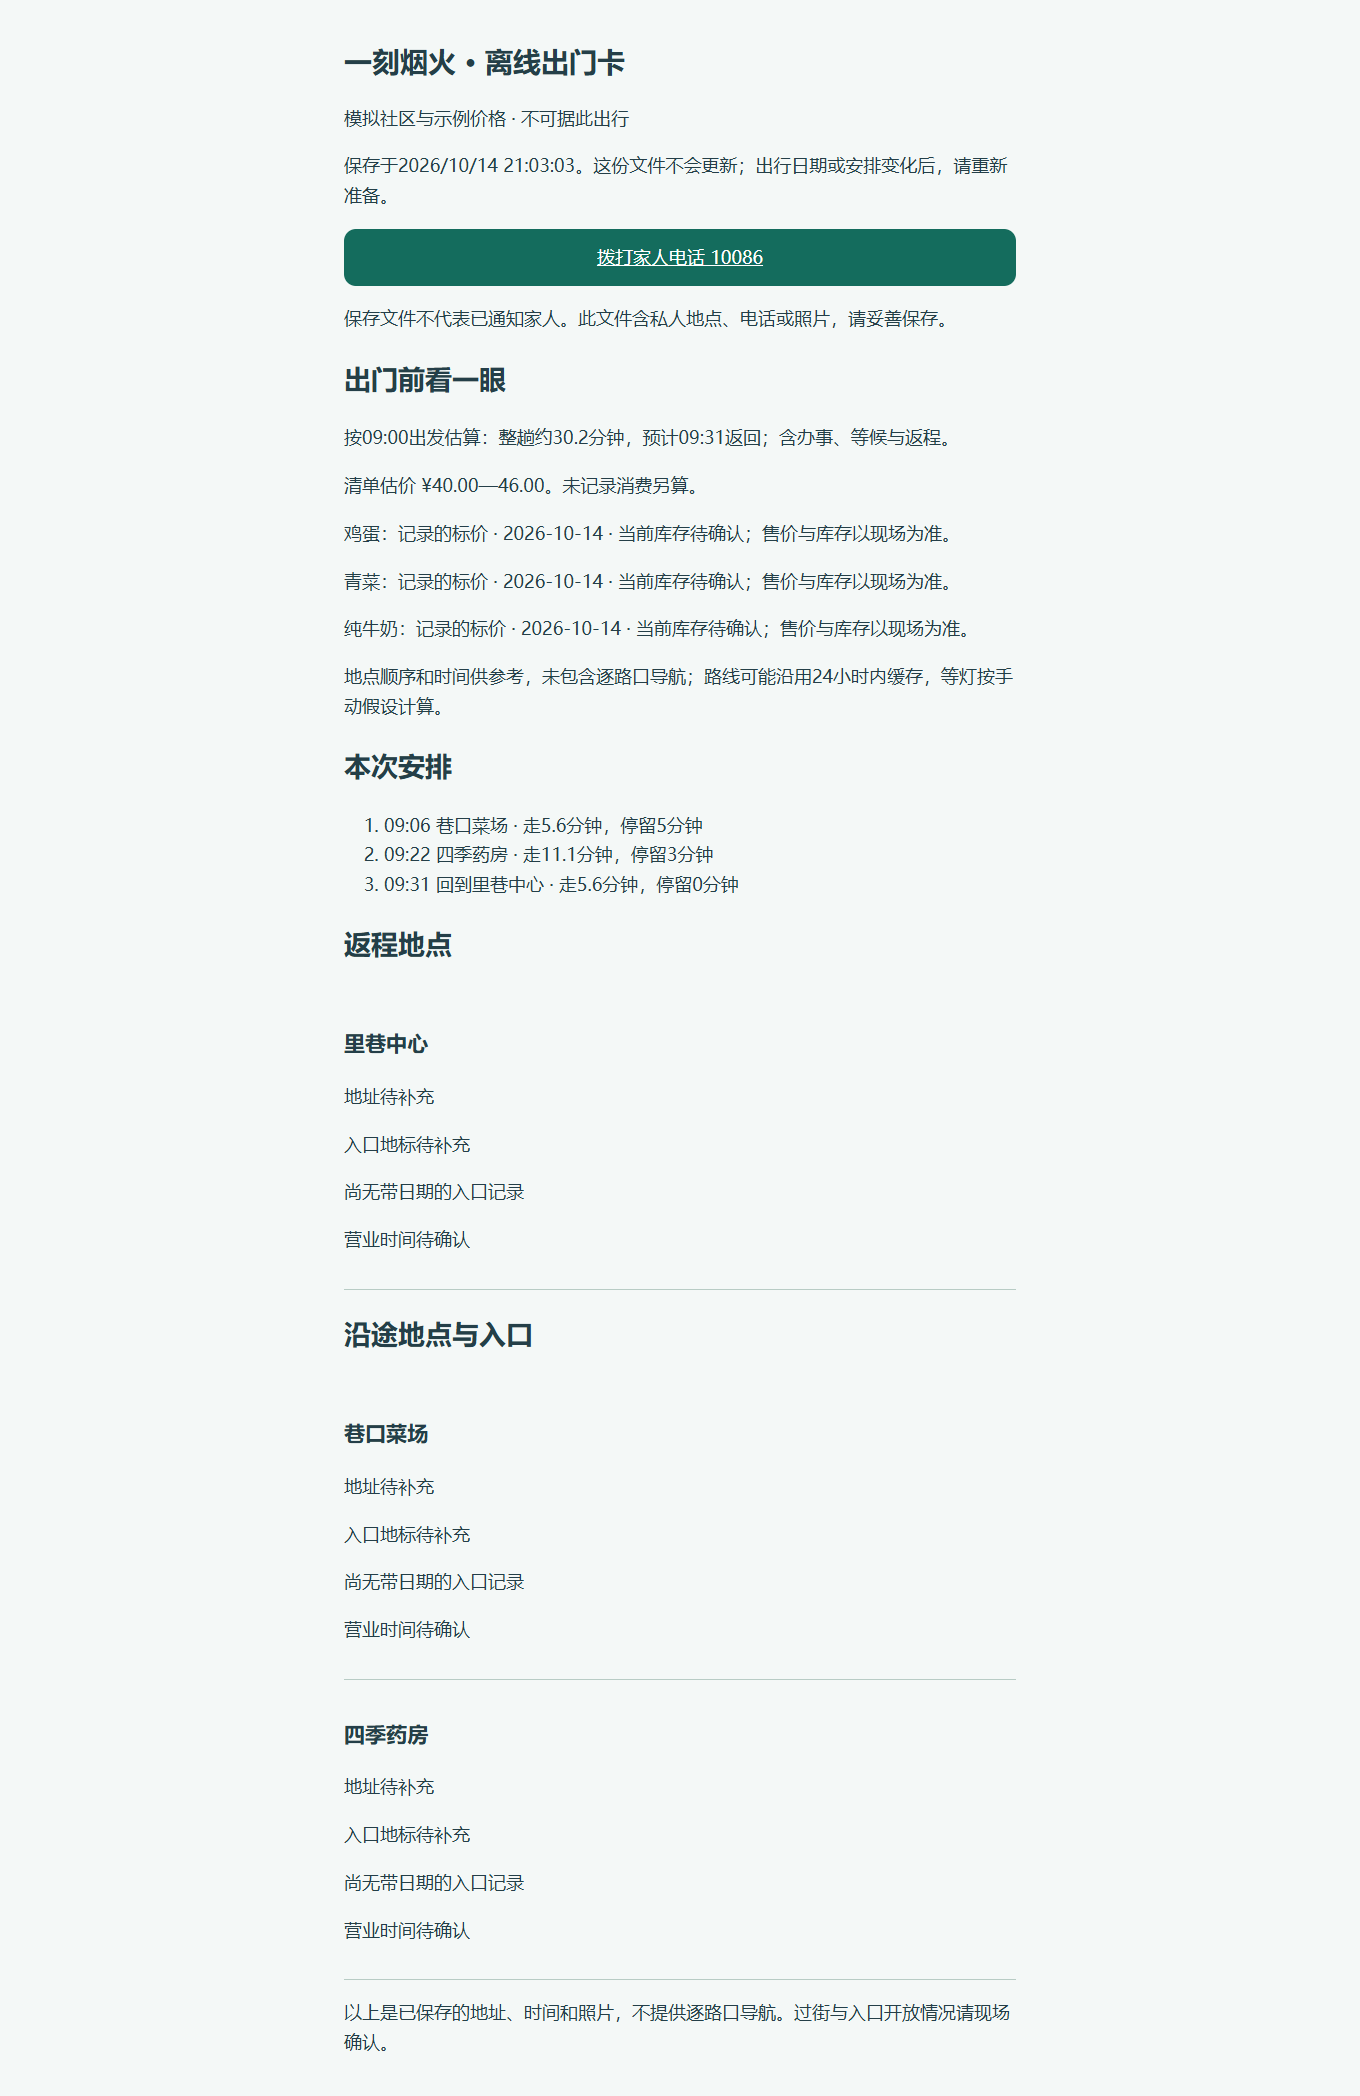
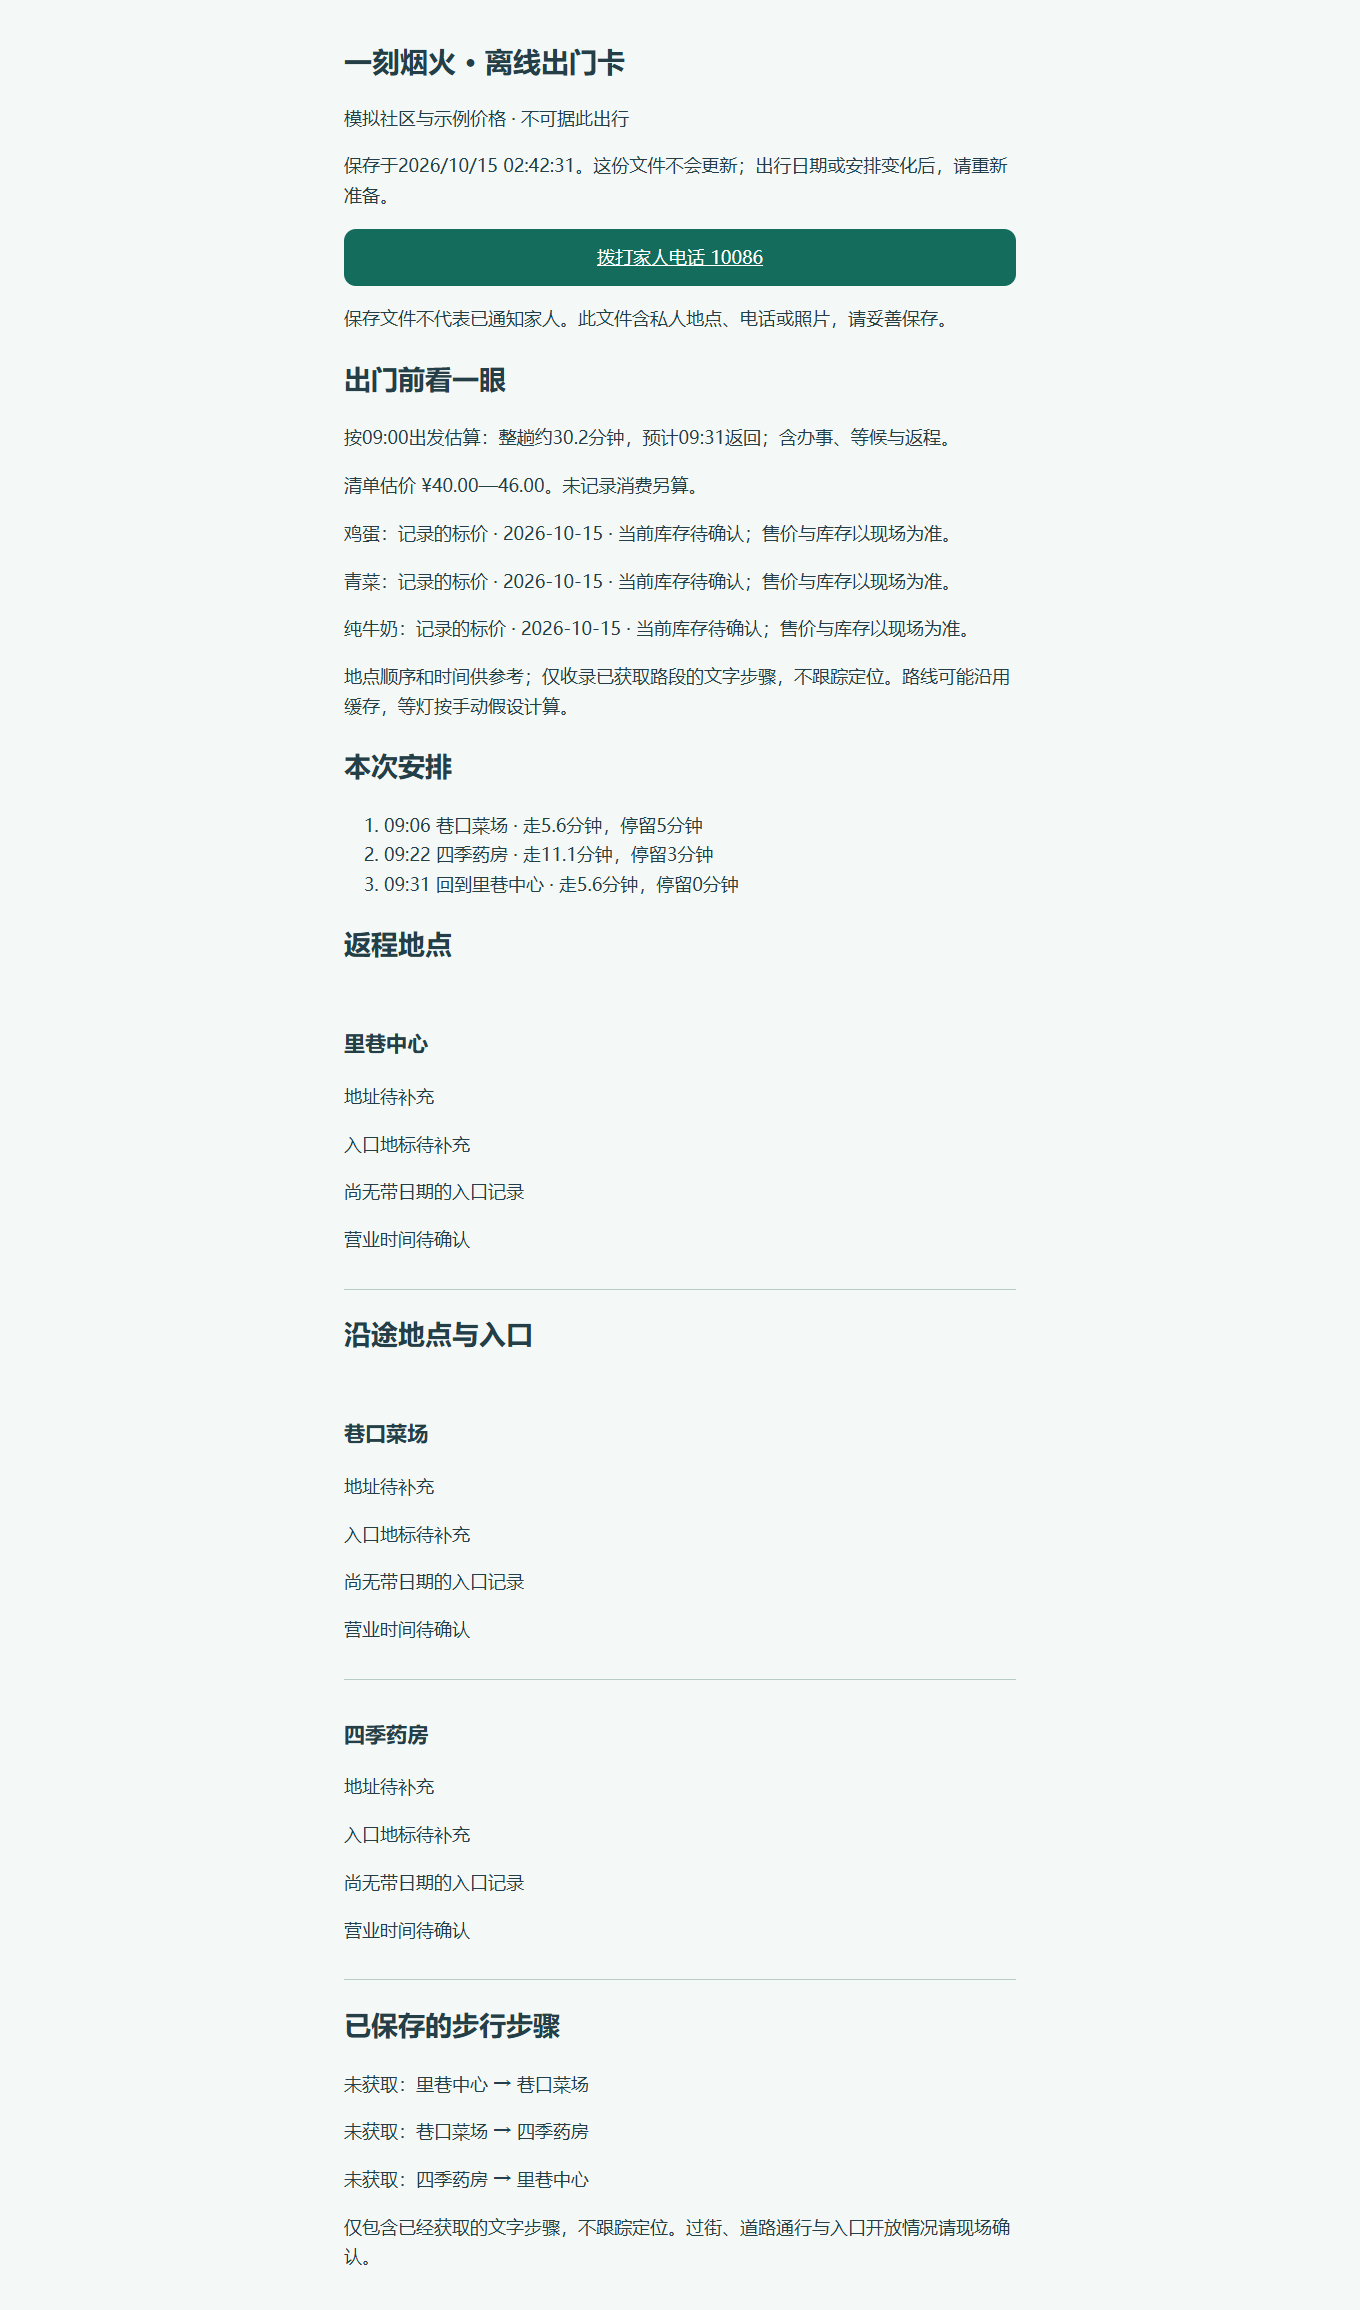
docs: record walking guidance and live API validation

Changed region(s): [[0.2471, 0.0, 0.7412, 0.9924], [0.6176, 0.9303, 0.7412, 0.9924]]

diff --git a/docs/walking-guides.md b/docs/walking-guides.md
@@ -1,0 +1,43 @@
+# 分段步行指引
+
+入口保持在“一趟出门”的结果中：核算整趟行程 → 查看步行指引 → 选择路段 → 获取这一段。进行中的行程提供“查看剩余路段指引”，起点是最后一次本人确认的地点，不是自动取得的当前位置。
+
+每次只取一段，先明确确认，再发送起终点。百度服务端AK仅由服务端读取；客户端不携带AK。没有后端时仍可查看模拟步骤和本机已保存的指引。没有步骤时保留原行程，不生成看似真实的导航。
+
+## 阅读与离线使用
+
+- 大字显示当前步骤，提供上一条、下一条及整段列表。翻页只改变阅读位置，不标记到达、不产生家人位置记录。
+- 显示来源、获取时间、参考距离和服务商参考用时；个人步速、等候、购物和返程仍按原行程计算。日期不是道路核验日期。
+- 最近6段保存在本机，按有向起终点编号、名称、坐标和坐标系匹配。位置变化后不会套用旧步骤。超过24小时或时钟异常时仍可查看，但明确提醒更新与核对。
+- 获取后点击“准备这趟出门卡”，才把匹配路段收录进卡内；缺少的路段逐段标为“未获取”。刷新指引不会修改以前保存或下载的出门卡。
+- Web可下载独立HTML，断网打开也能查看；该文件无脚本、远程资源或设备凭证。微信在本机出门卡中查看。文件或本机快照不随路况更新，也不自动发给家人。
+- 存储失败时仅显示本次读取结果，并说明未完成离线保存。网络失败保留旧步骤，两端请求超时为35秒，不自动重试客户端请求。
+
+过街、临时封路及入口开放情况以现场为准。当前是可离线阅读的文字指引，未实现定位跟随、偏航重算、路口到达检测或实时导航播报。模拟步骤来自与离线算路相同的道路图，包含河道绕行，但不能据此在现实中出行。
+
+## 服务与额度
+
+使用[百度轻量路线规划步行接口](https://lbsyun.baidu.com/docs/webapi?title=directionlite%2Fguide%2Fwebservice-lwrouteplanapi%2Fwalk)，服务端请求`steps_info=1`。同坐标系直接查询；不同坐标系时按需转换为BD-09，避免混用坐标。
+
+与体检和办事矩阵共用BaiduGateway串行队列、日额度、配额失败停止机制及服务端120秒缓存。一次步行请求计1个route单位，提前保留1次重试余量；可能需要的坐标转换另计other。429与权限错误不重试，暂时网络错误至多重试1次。官方控制台的接口配额仍单独适用，本地预算不是账户余额。
+
+真实地图测试脚本必须独占同一项目预算保护租约，已有真实地图服务运行时拒绝另起队列。手动运行：
+
+```powershell
+$env:CONFIRM_BAIDU_WALKING_LIVE='1'
+node --env-file=.env --import tsx scripts/test-walking-live.ts
+```
+
+该脚本只查询上海公开地点的一段步行路，然后重复读取验证缓存。输入不含私人位置、电话或照片；详细响应存入忽略目录`.cache/walking-live.json`，不进仓库。脚本不会自动停止已有服务。
+
+## 2026-10-15 验证
+
+北京时间02:39，抚顺路社区睦邻中心（入口待核验）至阳普鞍山菜市场（鞍山四村店）的接口返回205米、194秒、4条步骤。重复请求使用缓存：百度实际请求1次，地点检索、转换和底图请求各0次。该记录仅证明接口及解析可用，没有完成街道实走或确认店铺入口。
+
+157项业务／API／原生页面业务测试与25项浏览器流程通过。新覆盖包括缺失步骤、服务商HTML清理、坐标和编号绑定、预算不足、鉴权、拒绝确认、单请求保护、迟到响应丢弃、存储失败、旧步骤保留、断网回看及导出。修复真实百度设施编号含冒号被拒绝、私人地点的场景编号前缀导致入口文字未带入出门卡的问题。
+
+通过微信官方CLI渲染构造的模拟路段核对原生排版，没有使用鼠标键盘控制，没有覆盖真实地点簿。首次自动化连接超时，在模拟器就绪后连接恢复；新增页面截图已检查，错误日志筛选无匹配。原生业务另由测试运行真实页面代码、模拟系统回调完成；新功能的实体手机与街道实测尚未完成。
+
+![Web 320像素步行步骤](images/walking-steps-320.png)
+
+![微信原生大字步骤，模拟数据](images/walking-steps-mini.png)

diff --git a/docs/validation.md b/docs/validation.md
@@ -1,5 +1,17 @@
 # 验证记录
 
+## 2026-10-15 分段指引与真实接口回归
+
+157项业务、HTTP与小程序原生页面业务测试通过；25项浏览器流程通过，新增35秒客户端超时后定向复验步行与离线导出流程通过。生产构建与代码格式通过，本机`project.config.json`保持未提交。新增文字步骤、缓存、模拟路网、离线卡、鉴权及输入校验边界见[分段步行指引](walking-guides.md)。
+
+上海公开地点实测：北京时间02:39，抚顺路社区睦邻中心至阳普鞍山菜市场返回205米、194秒、4条指引。一次实际百度步行请求成功，第二次相同接口请求命中网关缓存；检索、转换、底图调用均为0。未增加并发或日额度。现场入口、施工与实际用时没有实走验证。
+
+真实合成语音链路最终通过：录音→显式发送→可编辑文字→确认→Qwen修改条件→确认→本机核算。每次模型请求前读取[硅基流动官方价格数据](https://www.siliconflow.cn/pricing)，成功轮的`FunAudioLLM/SenseVoiceSmall`及`Qwen/Qwen3-8B`均通过零价格检查；没有切换付费服务。识别句中“药”被识别为“要”，保留人工核对步骤，文本规划仍正确应用30元、45分钟及取消取药，并保留原购物清单。该测试使用本地合成音频，不接入真实麦克风。
+
+首轮识别测试在30秒等待上限内未收到响应；将测试脚本等待改为45秒，服务端30秒保护不变，第二轮通过。测试台账共记录2次识别尝试和1次文本规划；首轮的上游结果未确认，不作为识别成功或费用记录。成功轮识别与文本各1次，百度调用0次。不依据单次超时判断模型能力。
+
+微信官方CLI已恢复连接并验证原生大字步骤排版，截图使用构造数据，未改动真实地点簿；错误日志筛选无匹配。业务测试模拟系统回调，截图只作原生布局证据，新功能实体手机、权限与街道实走仍待验证。没有云部署、上传、公开发布或更换本机AK。
+
 ## 2026-10-14 常用方案、出门准备与家人回执
 
 Web与微信新增常用出门条件、含返程地点的本机准备卡，以及限时位置卡上的家人主动回应。沿用简易首页三个入口，方案管理、完整依据和沿途资料逐步展开。

diff --git a/miniprogram/README.md b/miniprogram/README.md
@@ -1,5 +1,7 @@
 # 微信小程序开发版
 
+“一趟出门 → 核算整趟行程 → 查看步行指引”现在可以选择一段路，明确获取百度文字步骤，以大字逐条阅读。获取后重新准备出门卡，即可断网查看已收录的路段；未获取路段会列明。模拟步骤完全离线，真实步骤需要连接新版后端，不需要新增定位授权。翻页不等于到达，也不会更新家人位置。详见[步骤、额度与验证边界](../docs/walking-guides.md)。
+
 “我要出门”新增常用方案和出门准备卡：结果下保存条件，下次按当前时间与步速重新核算；准备后可在本机查看返程地点、已有入口资料与家人电话。位置卡增加家人主动回应，打开不会自动标为已读。操作、离线边界及截图见[常用方案与出门准备](../docs/departure-preparation.md)。
 
 现在首次进入默认简易模式，首页保留“我要出门、常用地点、联系家人”，完整版可随时切换。联系家人无需先开始行程；电话只存本机，定位主动按次获取，授权失败时提供最近本人确认记录和明确标注的步行估算范围。位置卡需要连接服务，1小时到期且可撤销；真实手机权限、拨号和跨网络验收仍待完成。详见[简易模式与家人位置线索](../docs/simple-family.md)。

diff --git a/docs/api.md b/docs/api.md
@@ -1,5 +1,11 @@
 # 本地接口
 
+## 分段步行步骤
+
+`POST /api/outings/walking-guide`接收`{from,to}`，两者都是`OutingNode`（编号、名称、带坐标系的位置），必须属于真实场景且地点不同。返回`WalkingGuide`：版本、起终点、来源`baidu`、获取时间、米数、服务商参考秒数和最多80条文字步骤。只选择服务商第一条路线；去除指引HTML，拒绝缺失或不合法步骤，不填补虚构内容。
+
+公网部署要求拥有者设备鉴权，沿用来源检查；与`outings/routes`共用40次／10分钟请求保护、24000字节请求上限、BaiduGateway串行队列及持久化额度。连接中断后取消排队请求。真实接口和字段说明见[分段步行指引](walking-guides.md)。最近6段指引及出门卡只存当前设备，不随地点簿同步，不进入家人位置卡。
+
 所有计算端点只接受结构化输入，不接受任意上游 URL。默认监听本机，API响应不包含 AK。
 
 外部部署配置`PUBLIC_ORIGIN`后，除健康、公开配置、创建空间和兑换配对码外，所有`/api/`端点都需要设备会话。Web由HttpOnly cookie承载；小程序使用`Authorization: Bearer <设备令牌>`。令牌只对应本服务，不是百度AK。分析任务和私人报告按空间隔离。

diff --git a/docs/roadmap.md b/docs/roadmap.md
@@ -1,5 +1,7 @@
 # 实现计划
 
+2026-10-15：Web和微信增加按段获取的大字步行指引，已取得步骤可收录离线出门卡；真实上海路段接口与缓存核验通过，现场入口与手机实走待验证。见[操作与验证](walking-guides.md)。
+
 | 里程碑 | 范围 | 完成证据 | 状态 |
 | --- | --- | --- | --- |
 | M1 | 仓库、需求与参赛材料基线 | 首次提交、私有仓库确认 | 本轮完成 |
